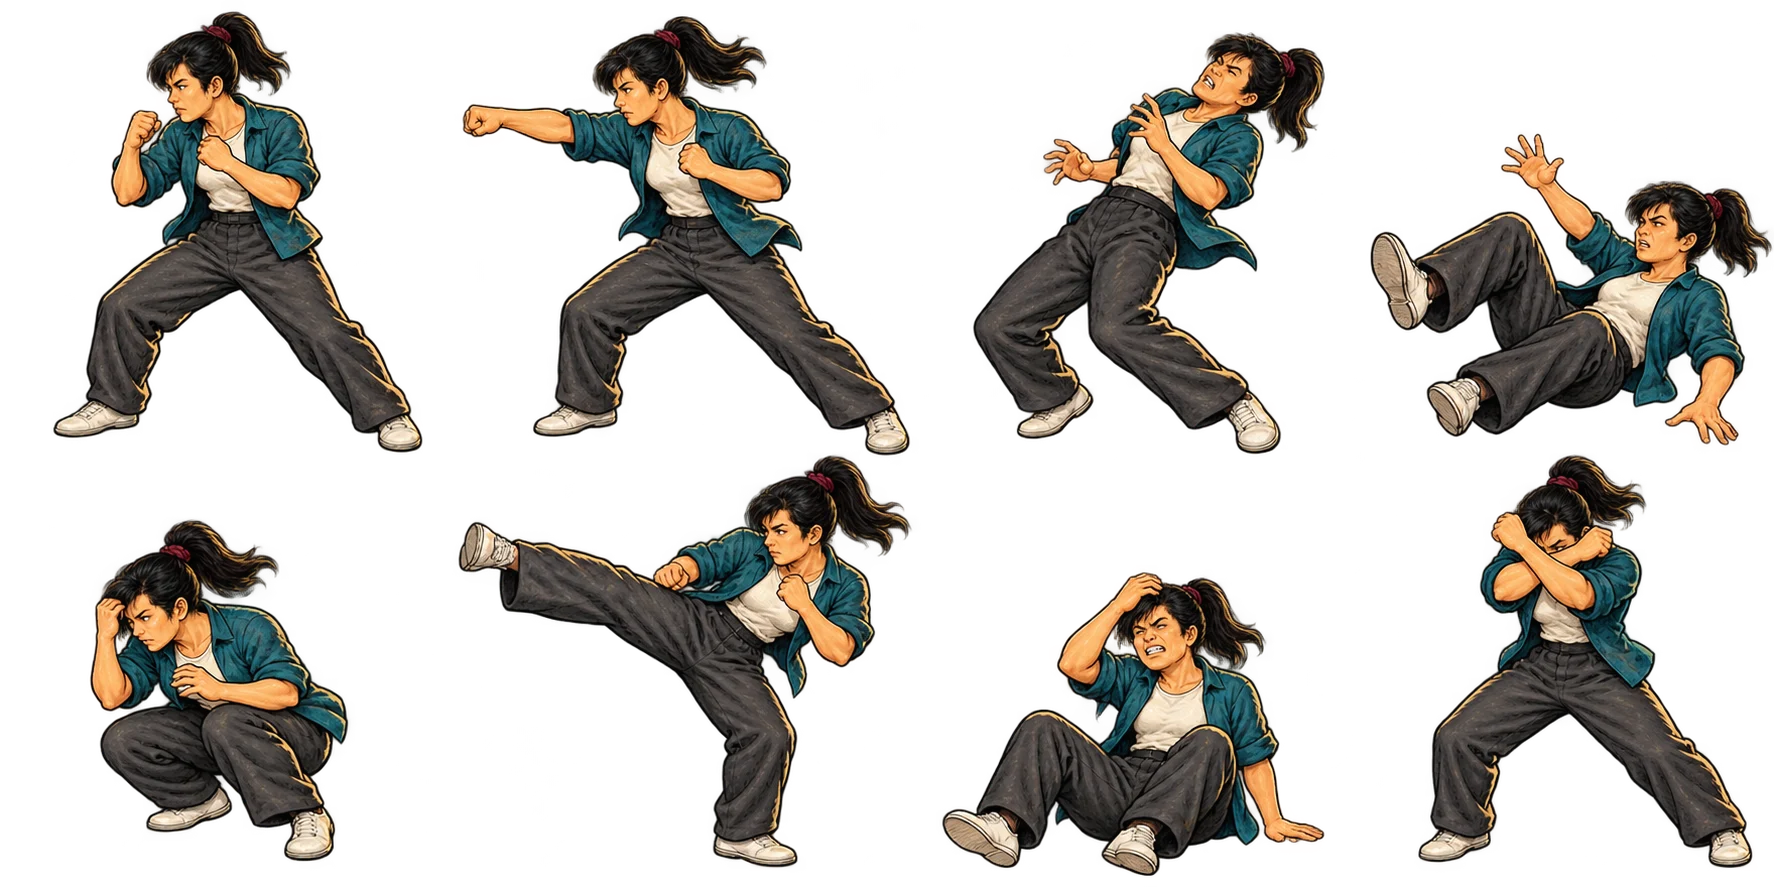
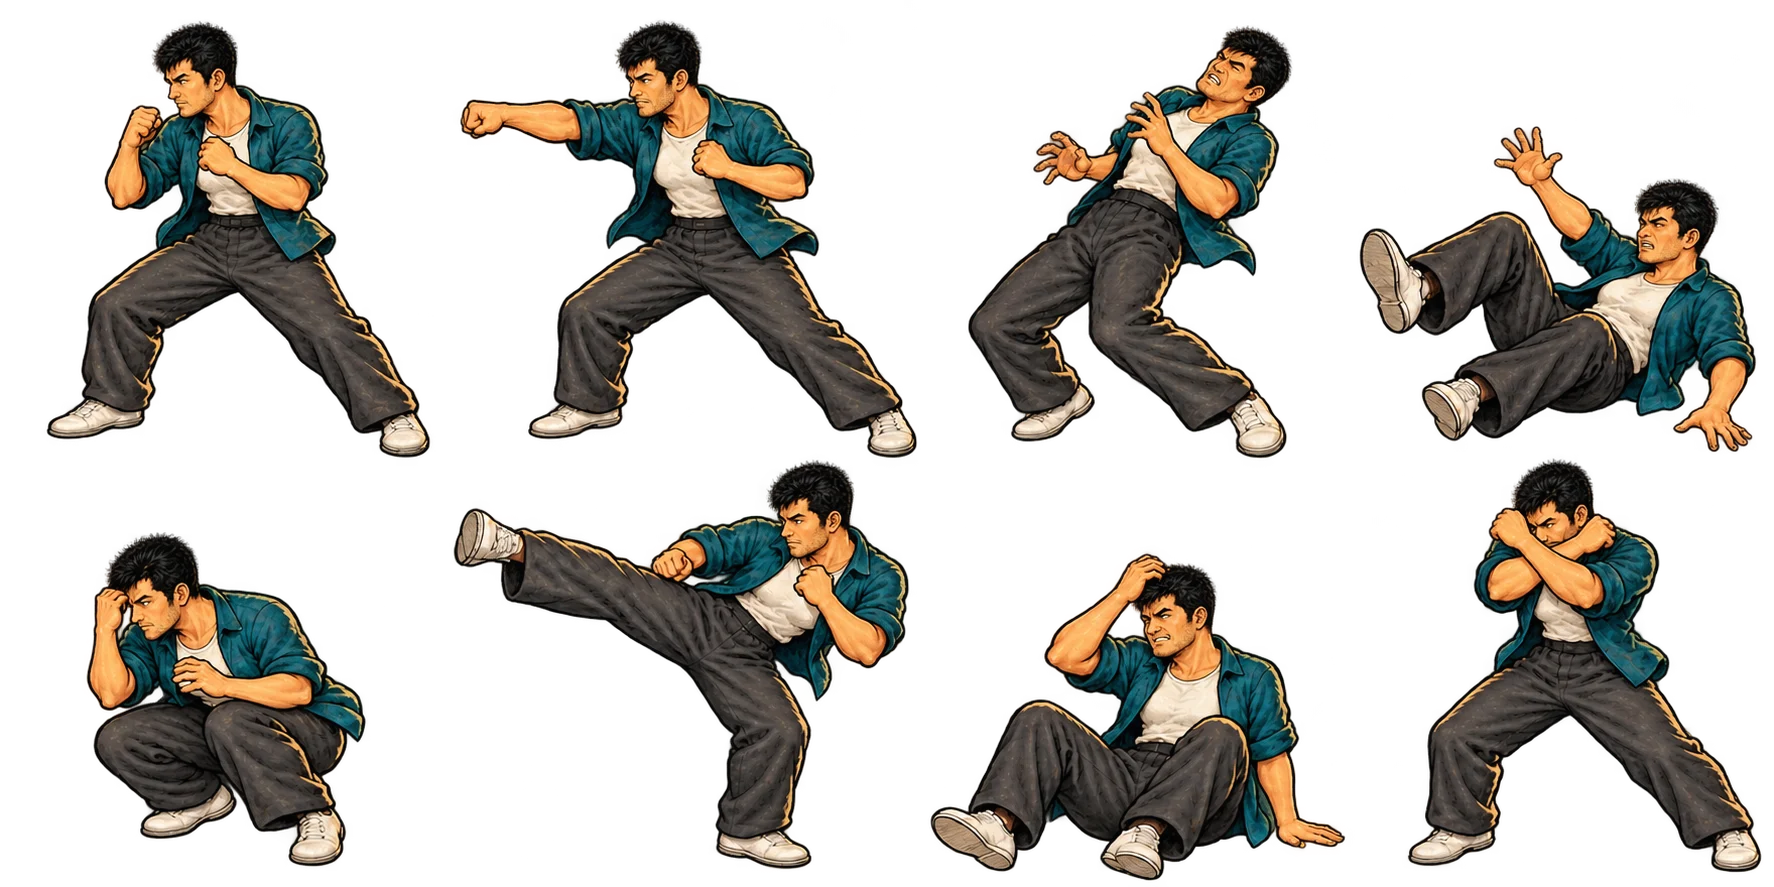
Use male opponents for every Hong Kong Warrior role

diff --git a/games/jackie-chan/JackieOpponents.ts b/games/jackie-chan/JackieOpponents.ts
@@ -2,7 +2,7 @@ import type { JackieLocation } from '../../src/shared/jackieChan';
 
 export const OPPONENTS = {
   street: { asset:'/assets/jackie-chan/foes.webp', scale:1, attack:1, guard:7, ru:'Уличный боец', en:'Street fighter' },
-  agile: { asset:'/assets/jackie-chan/foe-agile.webp', scale:.92, attack:5, guard:4, ru:'Уличная бойчиха', en:'Agile fighter' },
+  agile: { asset:'/assets/jackie-chan/foe-agile.webp', scale:.92, attack:5, guard:4, ru:'Ловкий боец', en:'Agile fighter' },
   bruiser: { asset:'/assets/jackie-chan/foe-bruiser.webp', scale:1.08, attack:1, guard:7, ru:'Портовый громила', en:'Dockside bruiser' },
   enforcer: { asset:'/assets/jackie-chan/foe-enforcer.webp', scale:1.02, attack:1, guard:7, ru:'Телохранитель', en:'Bodyguard' },
   master: { asset:'/assets/jackie-chan/foe-master.webp', scale:.91, attack:5, guard:7, ru:'Мастер кунг-фу', en:'Kung fu master' },

diff --git a/docs/jackie-chan.md b/docs/jackie-chan.md
@@ -6,6 +6,7 @@
 
 - Сохранить механику CR vs. Leo, включая ставку, выплаты, смену риска, остановку и автоматическое завершение после пяти успехов.
 - Привязать риск к количеству противников в одном бою.
+- Все противники мужчины.
 - Рисованный стиль с атмосферой классических гонконгских фильмов о кунг-фу.
 - Несколько локаций.
 - Один главный герой, без выбора персонажа. Костюмы открываются по мере игры по принципу коллекции GirlHUB.
@@ -22,7 +23,7 @@
 
 ## Костюмы и локации
 
-Чайный дом, старый порт и ночной рынок доступны сразу. Герой поднимает стул, закрывается им и наносит удар; для следующих соперников использует опору на стол и табурет. Противники имеют пять разных обликов: уличный боец, ловкая бойчиха, портовый громила, телохранитель в костюме и пожилой мастер. У каждого собственные лицо, одежда, силуэт и восемь нарисованных боевых поз.
+Чайный дом, старый порт и ночной рынок доступны сразу. Герой поднимает стул, закрывается им и наносит удар; для следующих соперников использует опору на стол и табурет. Противники имеют пять разных обликов: уличный боец, ловкий уличный боец, портовый громила, телохранитель в костюме и пожилой мастер. У каждого собственные лицо, одежда, силуэт и восемь нарисованных боевых поз.
 
 Карточка разнообразия противников: состав зависит от локации и порядкового номера боя, без повторяющихся типов внутри группы. Ожидание и первый бой используют одинаковый состав. Переоткрытие восстанавливает прежнюю группу; проигрыш и победа не выбирают разные типы. Все персонажи получают прежние контактные маркеры, реакции, звук и правила прерывания. Отличаются внешность, нарисованная стойка и масштаб фигуры; новые платные действия, вероятности, прогресс или особые награды не добавляются. Проверяются все типы и восемь поз, все группы, локации и пять боёв, читаемость на desktop/mobile и настоящий host с чатом.
 
@@ -107,3 +108,5 @@ node --import tsx scripts/local-jackie.ts
 Название по выбору пользователя: «Гонконгский воин» / Hong Kong Warrior. Пакет 1.0.0-c5925ee710d1 проверен в настоящем host с чатом на 1440, 390 и 320 px; пройдены три браузерных сценария и девять математических и денежных регрессий. Длинный заголовок переносится на mobile без горизонтального переполнения. Квалификация обоих затронутых профилей повторена штатно, аналитические результаты и серверные воспроизведения совпадают с предыдущими.
 
 Разнообразие противников проверено в пакете 1.0.0-412853052c35: пять типов и 1800 отрисованных состояний на ширинах 1000 и 360 px, три локации, пять боёв, все размеры групп, победы и поражения. Проверены отсутствие повторов внутри группы, устойчивый состав после переоткрытия и границы рисунков. Ожидающие враги стоят глубже, чтобы крупная передняя фигура не скрывала соседние лица; к контакту противник выходит вперёд. Дополнительно прошли восемь браузерных сценариев, шесть проверок постановки и выбора состава, девять математических и денежных регрессий, TypeScript и 13 RTP-профилей. Физические телефоны не проверялись. Новые атласы подготовлены встроенным image_gen; точные промпты, пути и контрольные суммы записаны в паспорте ресурсов.
+
+По уточнению пользователя все противники мужчины. Рисунок ловкого бойца заменён во всех восьми позах, подпись изменена на «Ловкий боец». Проверка пакета 1.0.0-635862f64711: 1800 состояний составов, четыре браузерных сценария с настоящим host/чатом, desktop/mobile, шесть проверок постановки и состава, девять математических и денежных регрессий, TypeScript и 13 RTP-профилей. Все проверки прошли; правила раунда и вероятности не изменялись. Текущий рисунок и точный промпт встроенного image_gen записаны в паспорте ресурсов.
